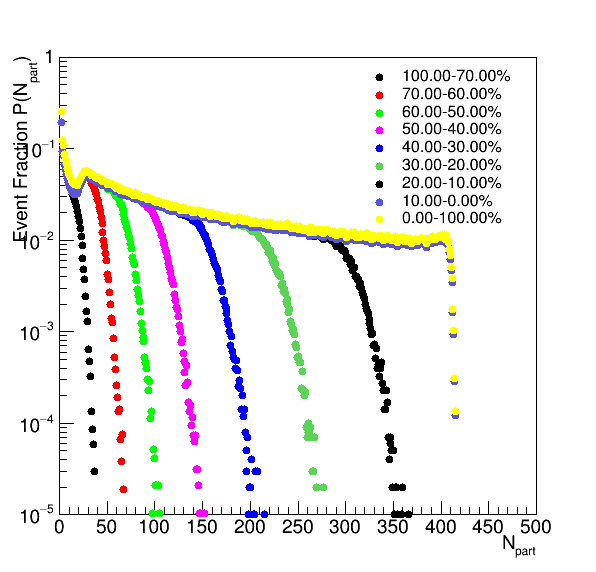
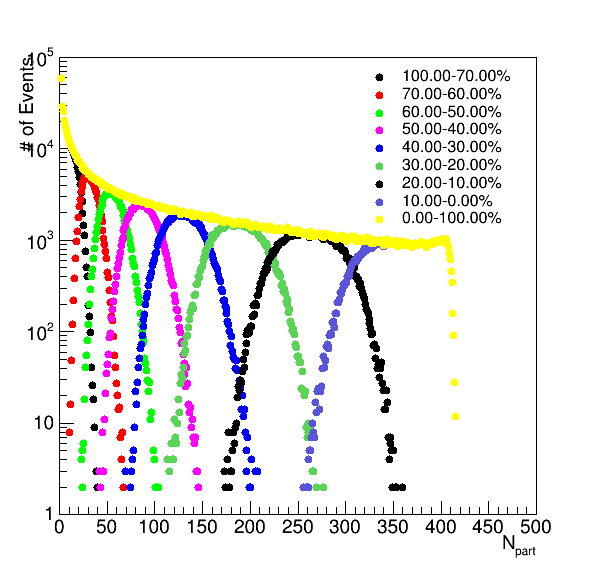
Npartdis

diff --git a/centrality/NBD/PbPb/double_side/DrawTHStack.C b/centrality/NBD/PbPb/double_side/DrawTHStack.C
@@ -9,7 +9,7 @@ void DrawTHStack(){
 	gStyle->SetOptStat(kFALSE);
 	int sth=0; int Gth=0;
 	TFile *f = TFile::Open(outG);
-	THStack *hs[3];
+	TObjArray *hs[3];
         std::vector<TH1D*> h[3];
 	TCanvas *c1 = new TCanvas("c1","stacked hists",10,10,600,600);
 	c1->SetLogy();
@@ -17,9 +17,9 @@ void DrawTHStack(){
 	TString name;	
         TH1D* hFrame = new TH1D("","",4000,0,4000);
 	hFrame->GetXaxis()->SetRangeUser(0,500);
-	hFrame->GetYaxis()->SetRangeUser(1e-5,1);
+	hFrame->GetYaxis()->SetRangeUser(1,1e5);
 	hFrame->GetXaxis()->SetTitle("N_{part}");
-	hFrame->GetYaxis()->SetTitle("Event Fraction P(N_{part})");
+	hFrame->GetYaxis()->SetTitle("# of Events");
         hFrame->DrawCopy();
        	if(Gth==0)
         	name = "G0";
@@ -34,11 +34,11 @@ void DrawTHStack(){
         	if(sth==0){dirname = "std";}
         	else if(sth==1){dirname ="Gri055";}
         	else {dirname ="Gri101";}
-		hs[sth] = (THStack*)f->Get(Form("%s/%s/Npartdis",dirname.Data(),name.Data()));
+		hs[sth] = (TObjArray*)f->Get(Form("%s/%s/Npartdis",dirname.Data(),name.Data()));
                 h[sth].resize(N);
                 for(int i=0;i<N;i++){
 //		h[sth][i] = (TH1D*)hs[sth]->GetStack()->At(N-1);
-		h[sth][i] = (TH1D*)hs[sth]->GetStack()->At(i);
+		h[sth][i] = (TH1D*)hs[sth]->At(i);
 		h[sth][i]->SetLineColor(colorCode[i]);
 		h[sth][i]->SetMarkerSize(1.0);
 		h[sth][i]->SetMarkerStyle(20);
@@ -53,7 +53,6 @@ void DrawTHStack(){
     leg0->SetBorderSize(0);
     leg0->SetTextFont(42);
     leg0->SetTextSize(0.030);
-    centbin->Print();
     for(int i=0;i<N;i++){
 	if(method==0)label[i] = Form("%.2f-%.2f%%",(*centbin)[i]*100,(*centbin)[i+1]*100);
 	else label[i] = Form("%.2f-%.2f",(*kpoint)[i],(*kpoint)[i+1]);

diff --git a/centrality/NBD/PbPb/NBDclass.C b/centrality/NBD/PbPb/NBDclass.C
@@ -9,7 +9,7 @@
 #include <TFile.h>
 #include <TString.h>
 #include <TList.h>
-#include <THStack.h>
+#include <TObjArray.h>
 #include <TVectorT.h>
 #include <TMath.h>
 #include <TTree.h>
@@ -36,7 +36,7 @@ public:
 	TVectorD kpoint;	//bin boundary
 	TVectorD centbin_;	//centrality bins using data(%)
 	TVectorD kpoint_;	//bin boundary using data(%)
-	THStack* Npartdis;
+	TObjArray* Npartdis;
 	TGraph2D* Grgrid;
 
 	NBD(){};
@@ -73,7 +73,7 @@ public:
                 N=Nv-1;
                 method[0]=methodv;
                 NpartAver.ResizeTo(N); NcollAver.ResizeTo(N);BAver.ResizeTo(N);
-                Npartdis = new THStack("Npartdis","");
+                Npartdis = new TObjArray(0);
         };
         void assign(double muv, double kv){
                 mubest[0]=muv;  kbest[0]=kv;
@@ -278,11 +278,11 @@ void NBD::calcvar(){
                 	NcollAver[i]/=PartEvent[i];
                         NpartAver[i]/=PartEvent[i];
                         BAver[i]/=PartEvent[i];
-			hNpart[i]->Scale(1.0/PartEvent[i]);
+			//hNpart[i]->Scale(1.0/PartEvent[i]);
 			Npartdis->Add(hNpart[i]);
          	}
 	}
-                hNpart[N]->Scale(1.0/TotalEvent);
+                //hNpart[N]->Scale(1.0/TotalEvent);
 		Npartdis->Add(hNpart[N]);
 		treefile->Close();
 		remove(treestr);

diff --git a/centrality/NBD/PbPb/double_side/store.C b/centrality/NBD/PbPb/double_side/store.C
@@ -78,7 +78,7 @@ if(type==1){
 	l->NcollAver.Write("NcollAver",TObject::kOverwrite);l->NpartAver.Write("NpartAver",TObject::kOverwrite);l->BAver.Write("BAver",TObject::kOverwrite);
 	l->centbin.Write("centbin",TObject::kOverwrite);	l->kpoint.Write("kpoint",TObject::kOverwrite);
 	l->centbin_.Write("centbin_",TObject::kOverwrite);	l->kpoint_.Write("kpoint_",TObject::kOverwrite);
-	l->Npartdis->Write("Npartdis",TObject::kOverwrite);
+	l->Npartdis->Write("Npartdis",TObject::kSingleKey | TObject::kOverwrite);
 	l->Grgrid->Write("Grgrid",TObject::kOverwrite);
         outfile->Close();
 }
